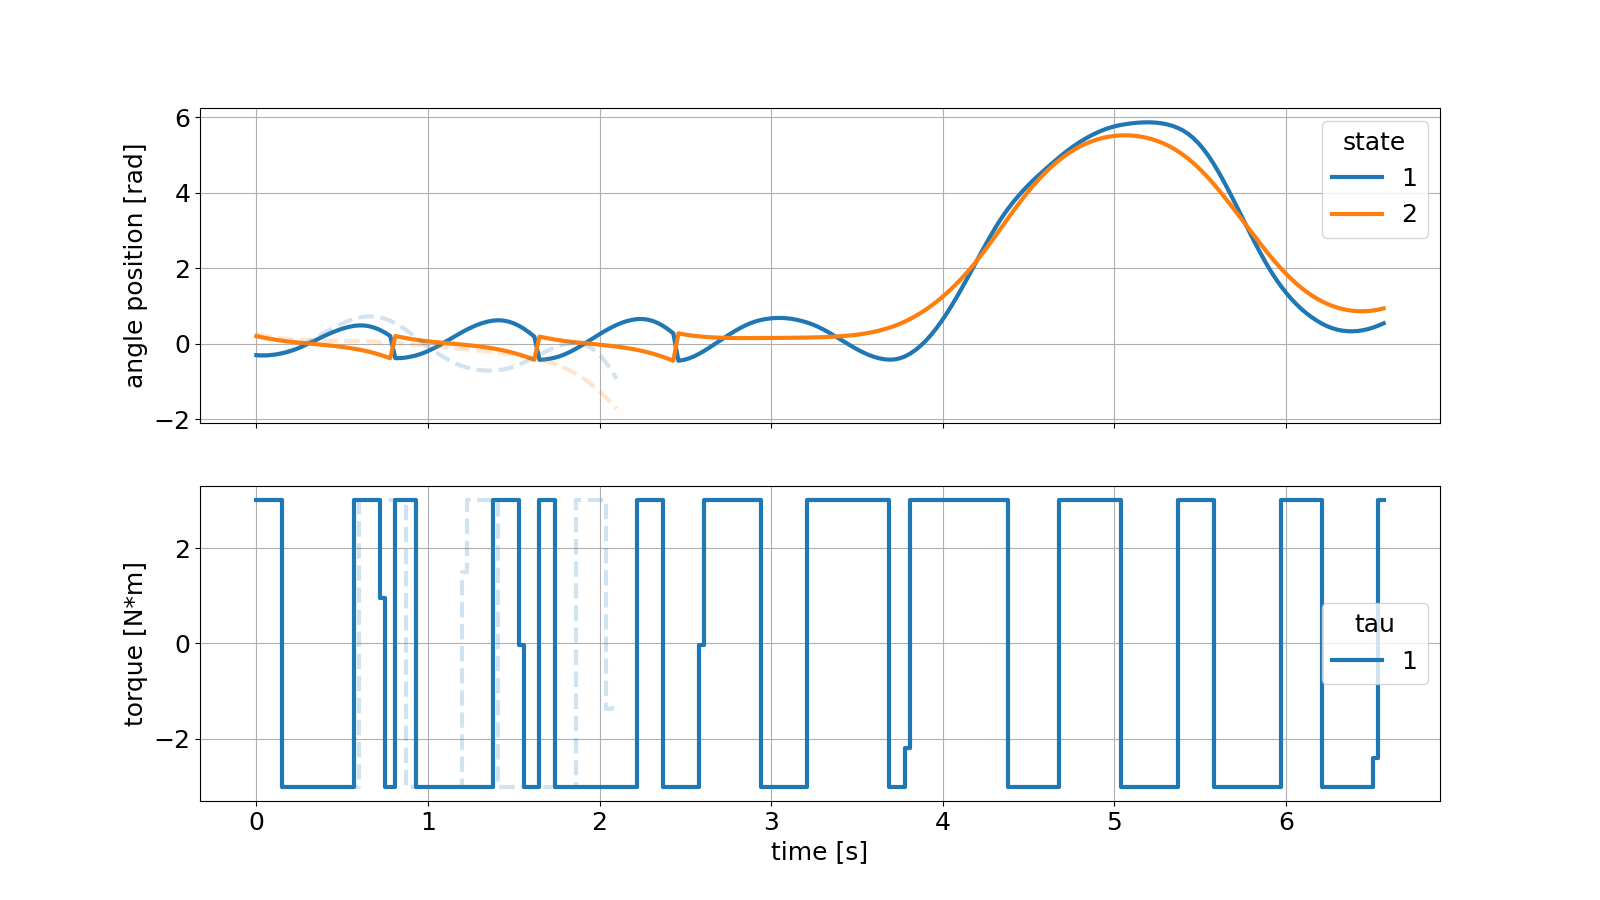
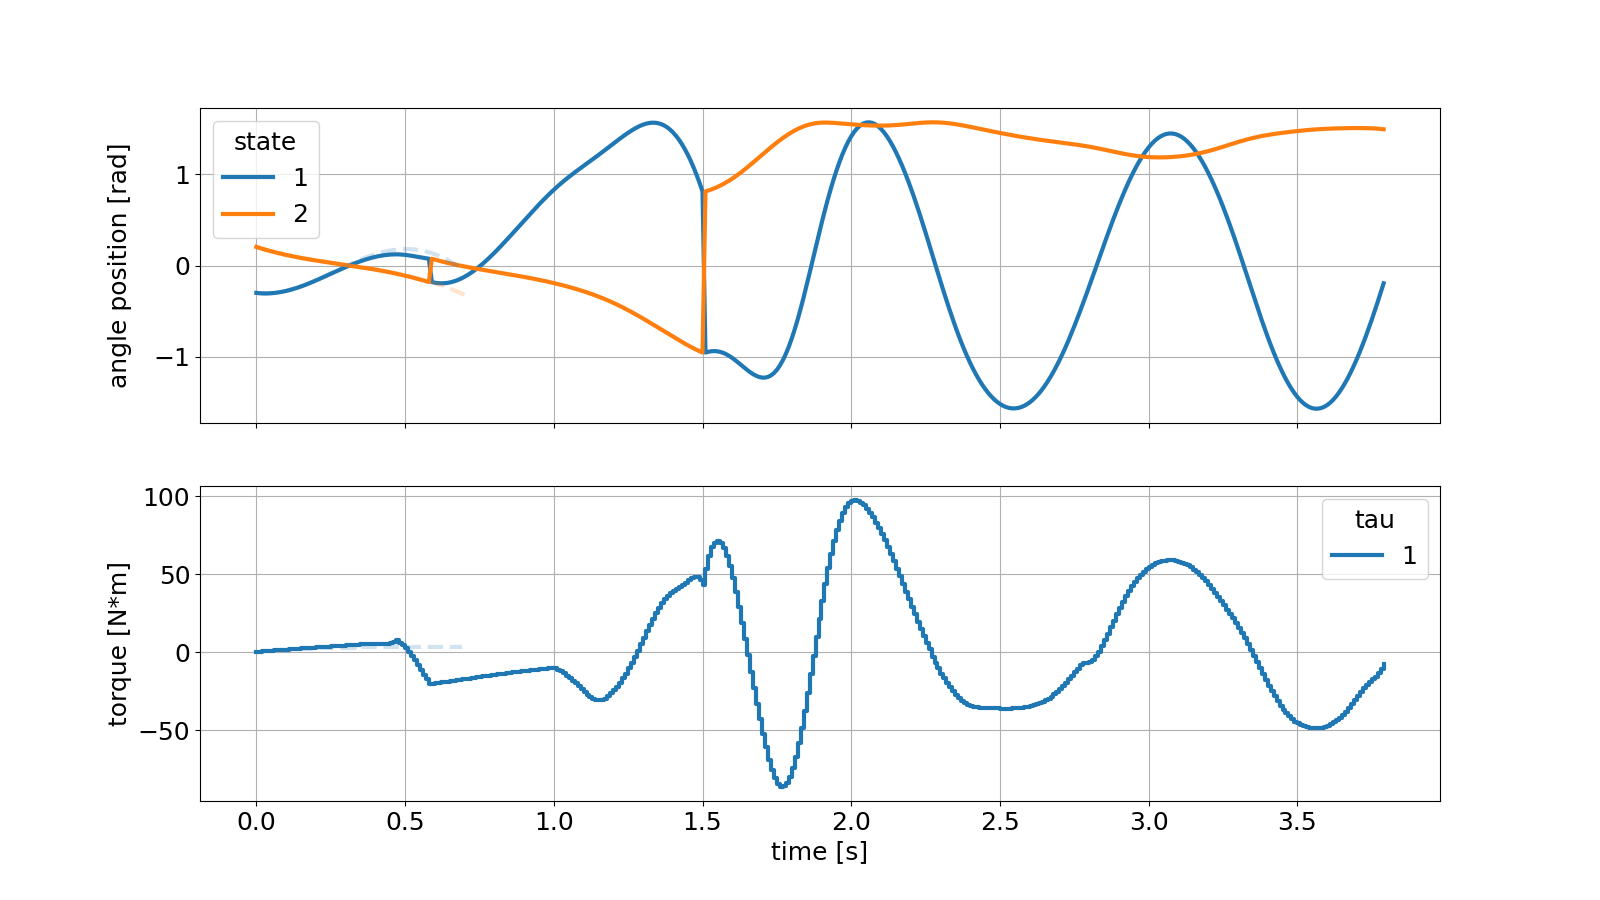
push for meeting

diff --git a/code/do-mpc/example/twolink/twoleg.py b/code/do-mpc/example/twolink/twoleg.py
@@ -103,11 +103,11 @@ mpc.set_rterm(
 mpc.bounds['lower','_x','x1'] = -1.5708 # -90 deg
 mpc.bounds['lower','_x','x2'] = -1.5708 # -90 deg
 mpc.bounds['upper','_x','x1'] = 1.5708 # +90 deg
-mpc.bounds['upper','_x','x2'] = 1.5708 # +90 deg\
+mpc.bounds['upper','_x','x2'] = 1.5708 # +90 deg
 
 # lower and upper bounds on inputs (tau/desired pos?)
-mpc.bounds['lower','_u','tau'] = -3
-mpc.bounds['upper','_u','tau'] = 3
+#mpc.bounds['lower','_u','tau'] = -3
+#mpc.bounds['upper','_u','tau'] = 3
 
 # should maybe add scaling to adjust for difference in magnitude from diferent states (optinal/future)
 
@@ -176,7 +176,7 @@ from calc_transition import calc_trans
 phibound = [1,1]
 ## natural responce of system (needs collision events to be added in sys dynamics)
 u0 = np.zeros((1,1))
-for i in range(num_steps):
+"""for i in range(num_steps):
     x0 = simulator.make_step(u0)
     print(i+1)
     #print(x0)
@@ -210,7 +210,7 @@ sim_graphics.clear()
 mpc_graphics.plot_predictions()
 mpc_graphics.reset_axes()
 # Show the figure:
-#fig.savefig('fig_runopt.png')
+#fig.savefig('fig_runopt.png')"""
 
 ## IMPROVE GRAPH
 # Change the color for the states:
@@ -246,7 +246,7 @@ for file in files:
     file_path = os.path.join(directory, file) 
     os.remove(file_path) 
 
-"""phibound = [0, 0]
+phibound = [0, 0]
 # main loop
 from calc_transition import calc_trans
 u0 = mpc.make_step(x0)
@@ -314,4 +314,4 @@ def update(t_ind):
     mpc_graphics.plot_predictions(t_ind)
     mpc_graphics.reset_axes()
 anim = FuncAnimation(fig, update, frames=num_steps, repeat=False)
-anim.save(twoleg_dir + 'twoleg_statesanim.gif', writer=animation.PillowWriter(fps=15))"""
+anim.save(twoleg_dir + 'twoleg_statesanim.gif', writer=animation.PillowWriter(fps=15))
